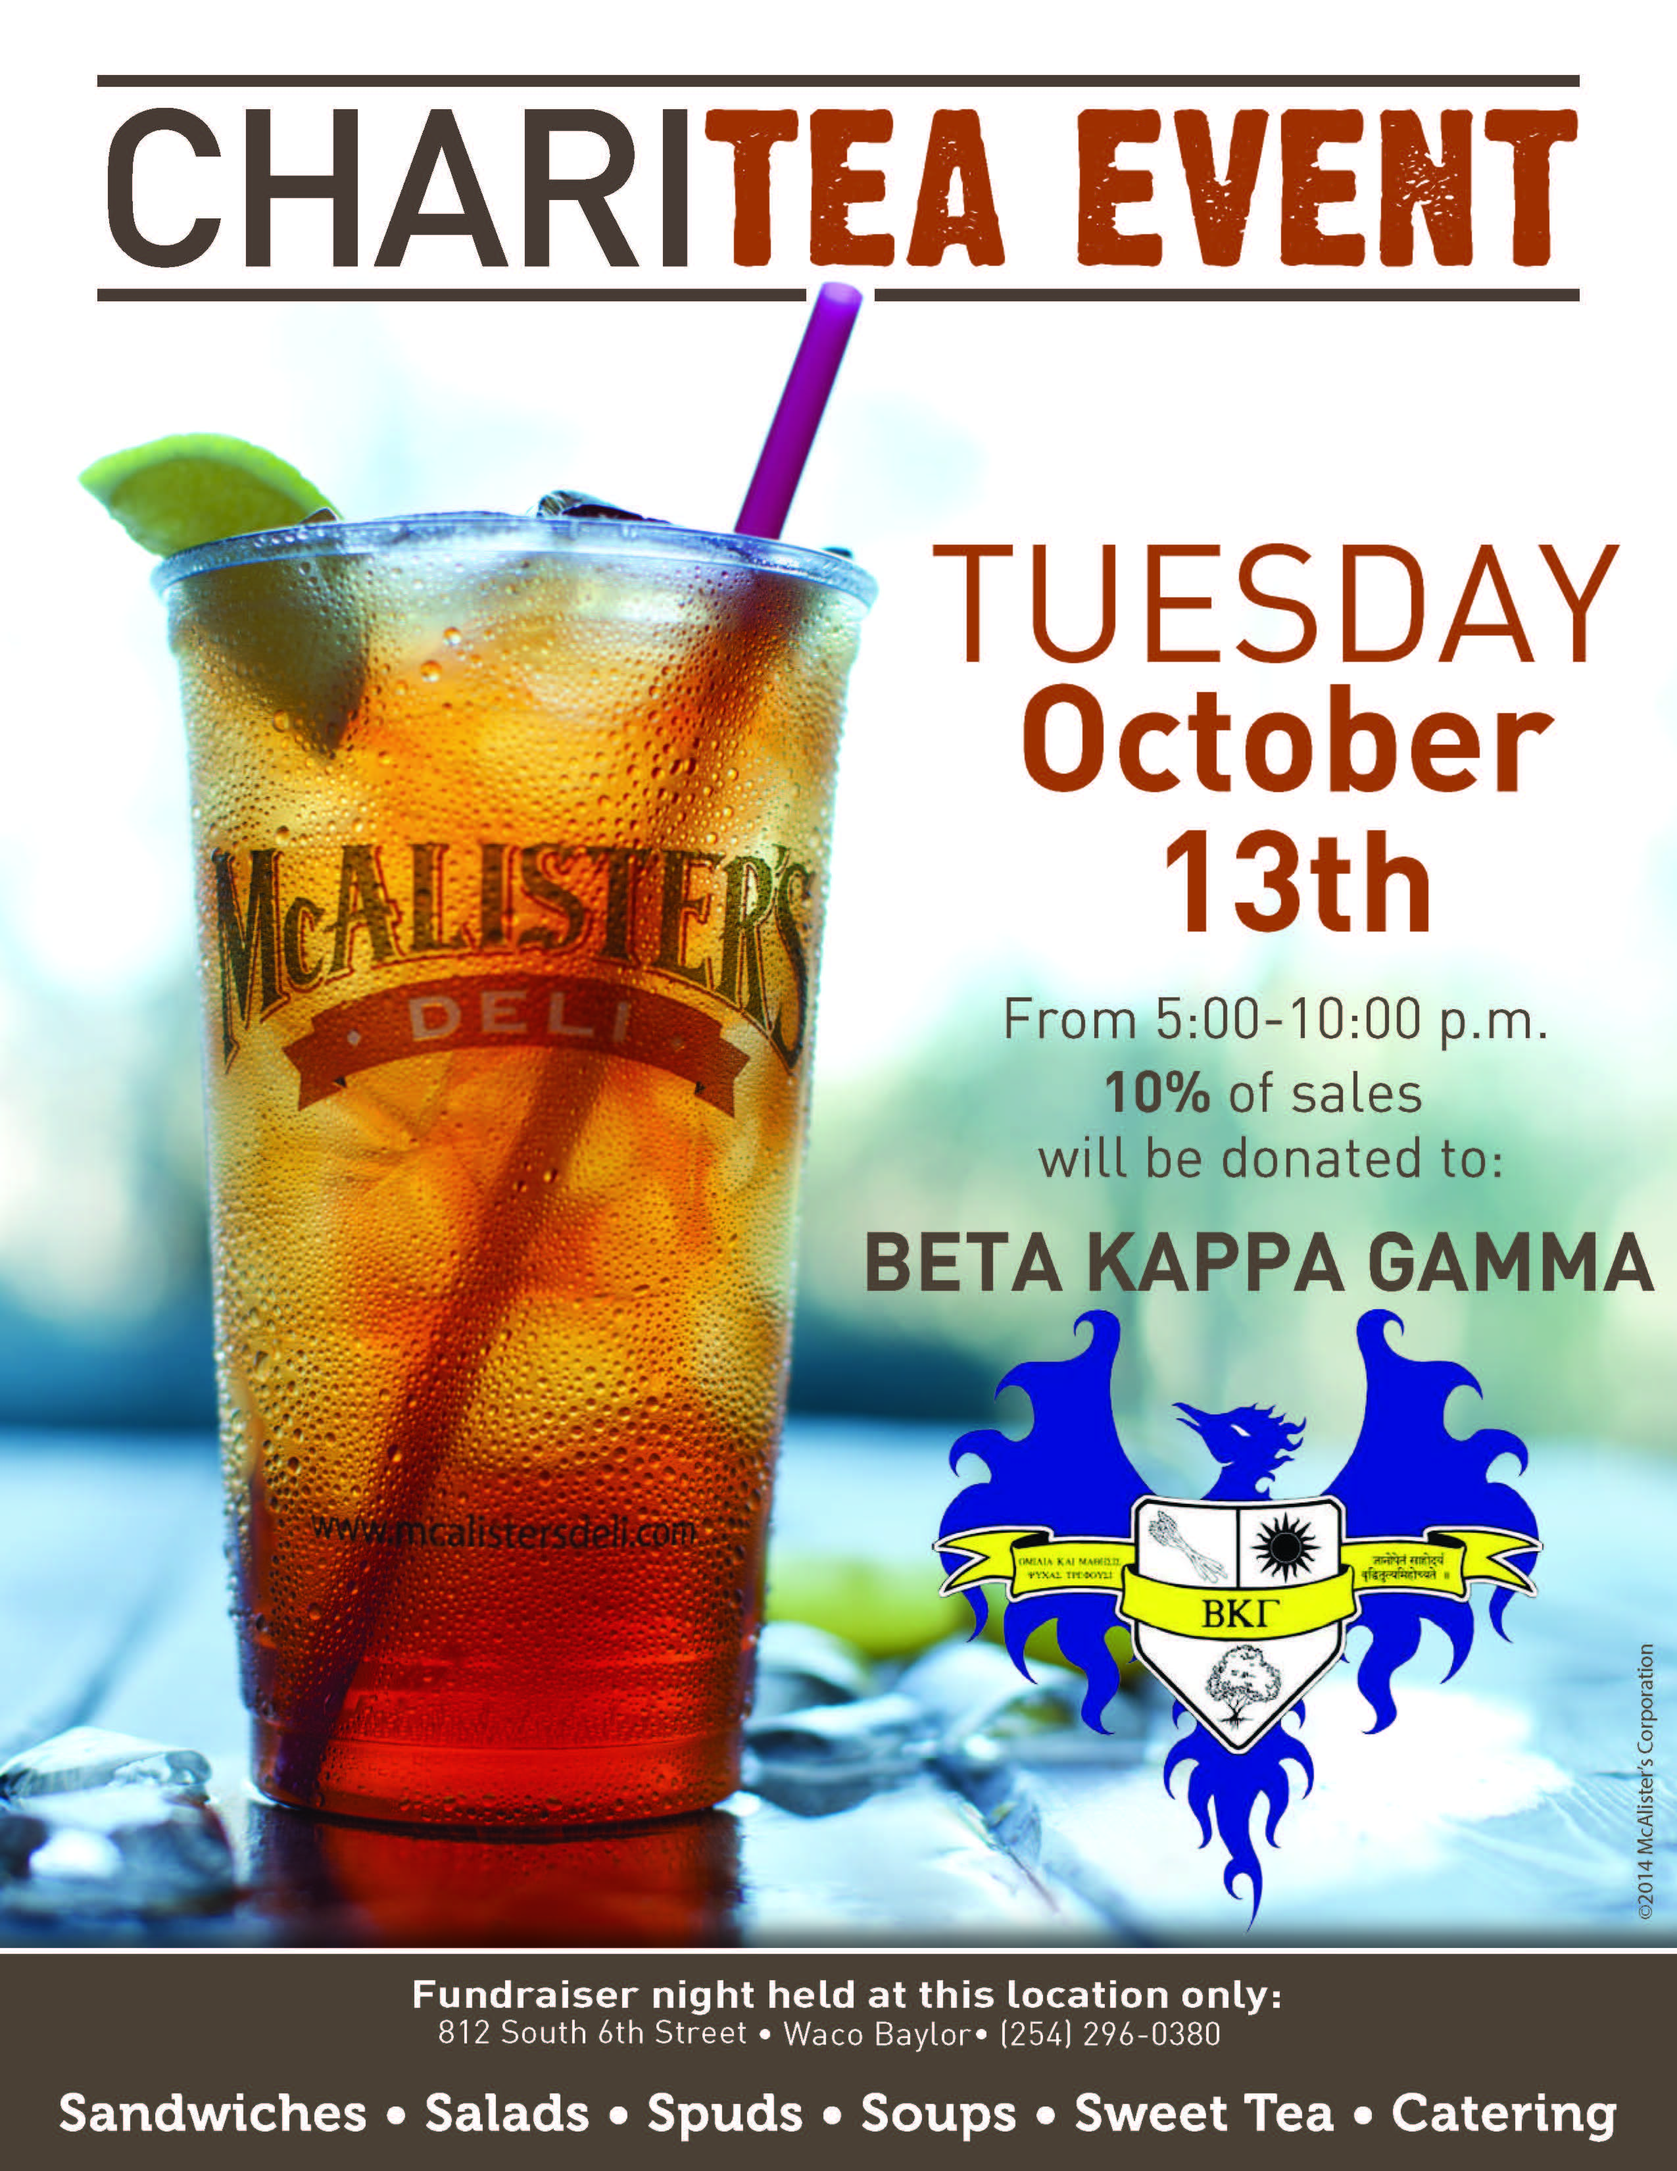
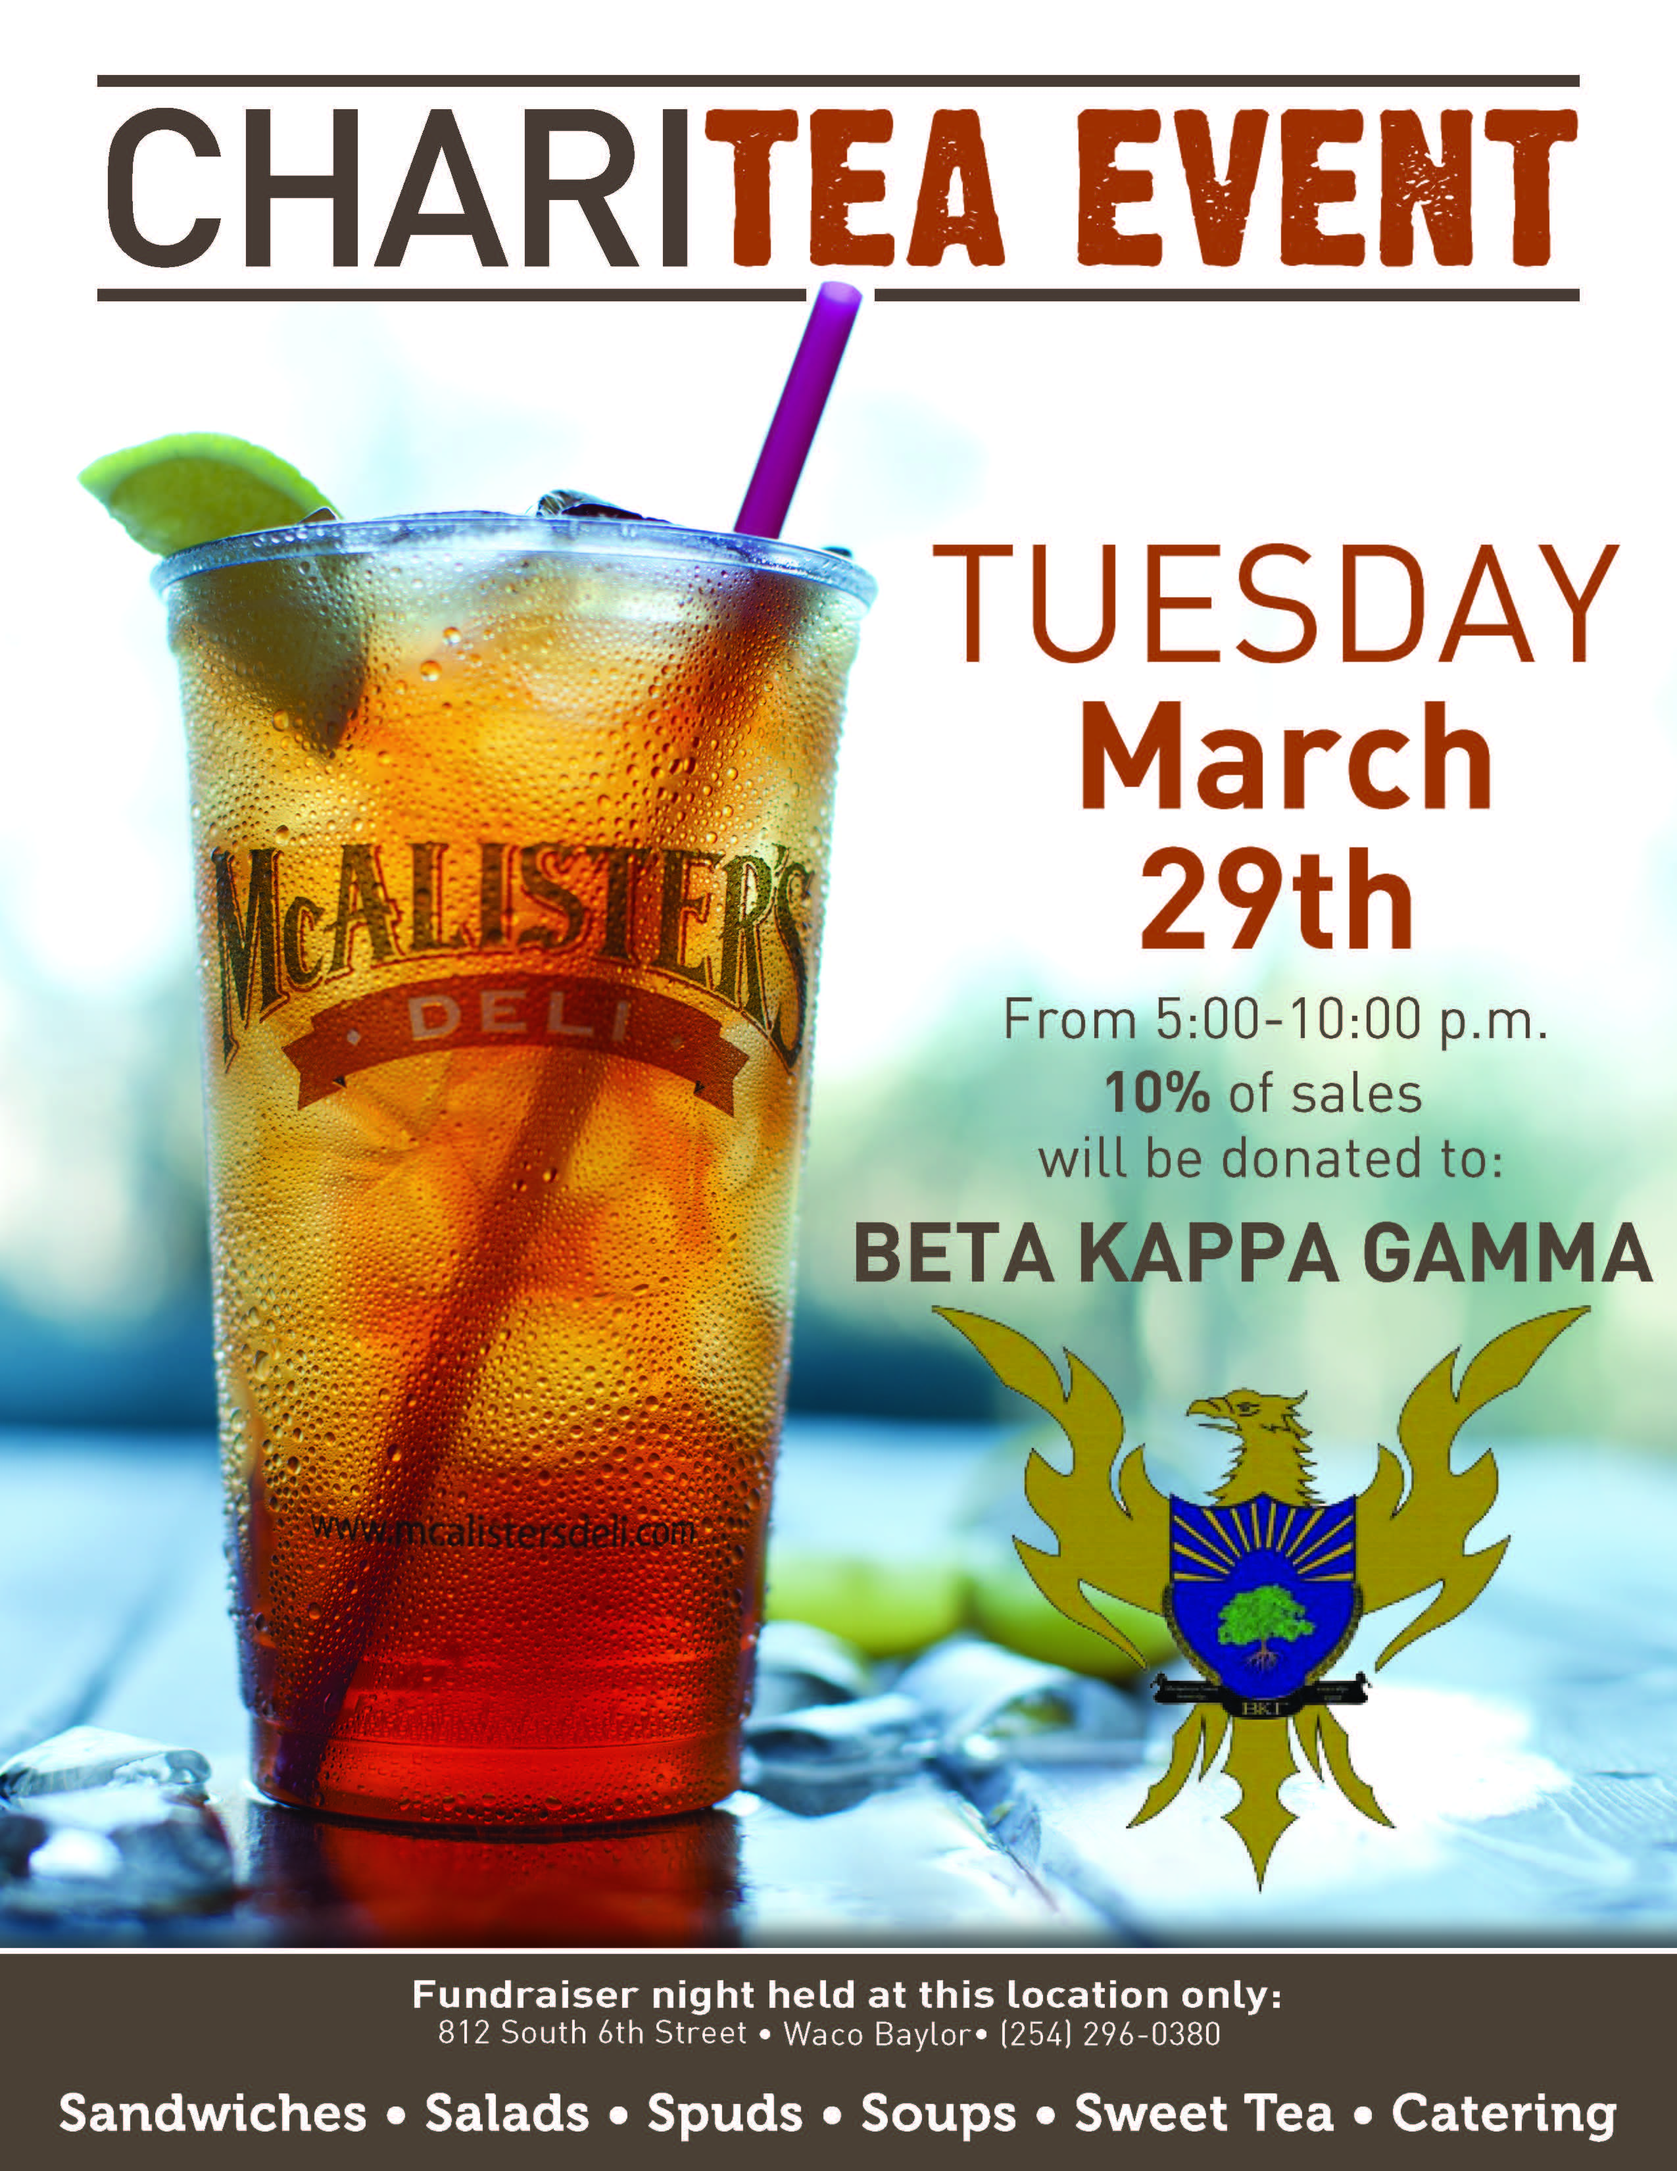
updated links

diff --git a/index.html b/index.html
@@ -268,8 +268,18 @@
                                 <li><span>Cost:</span> $10 per person</li>
                                 <li><span>Last Day to Sign Up:</span> April 1st, 2016</li>
                                 <li class="share-li">
-                                    <span>Other Ways to Help:</span>
-                                    Coming soon..
+                                    <span>Other Ways to Help:</span><br>
+                                    Bake Sale on Wednesday, March 23rd.<br>
+                                    McAlister's ChariTea Fundraiser on Tuesday, March 29th<div class="social-icons text-center">
+                                        <a href="https://www.facebook.com/events/1003015749736203/" target="_blank" class="social-icon icon-facebook add-tooltip" title="Facebook">
+                                            <i class="fa fa-facebook"></i>
+                                        </a>
+                                    </div><!-- End .social-icons --><br>
+                                    Buffalo Wild Wings Fundraiser on Friday, April 1st<div class="social-icons text-center">
+                                        <a href="https://www.facebook.com/events/750455295092069/" target="_blank" class="social-icon icon-facebook add-tooltip" title="Facebook">
+                                            <i class="fa fa-facebook"></i>
+                                        </a>
+                                    </div><!-- End .social-icons -->                               
                                     <br>
                                     <span>RSVP on our Facebook Page</span>
                                     Coming soon..
